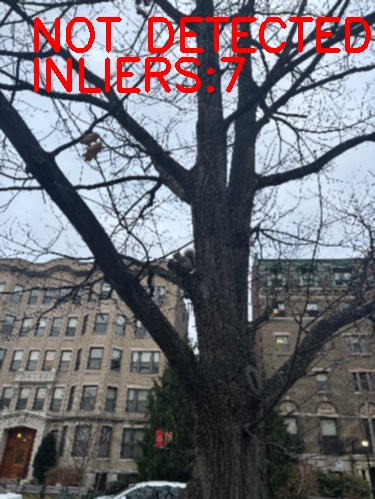
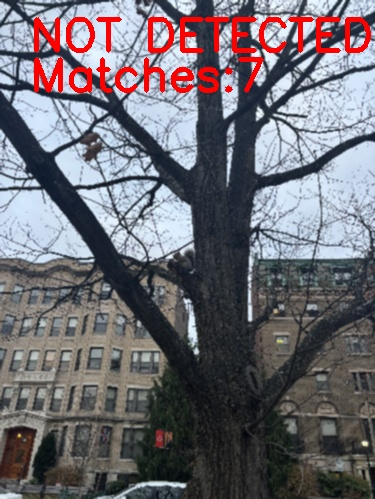
fixing comments

Changed region(s): [[0.088, 0.0902, 0.704, 0.2104]]

diff --git a/Detector-Function.py b/Detector-Function.py
@@ -3,9 +3,7 @@ import numpy as np
 import os
 import shutil
 
-# =========================================================
-# PREP OUTPUT FOLDER (fresh each run)
-# =========================================================
+# creates output images folder/clears old one
 output_root = "output-images"
 
 if os.path.exists(output_root):
@@ -13,44 +11,41 @@ if os.path.exists(output_root):
 
 os.makedirs(output_root)
 
-
-# =========================================================
-# LOAD REFERENCE IMAGE + ORB FEATURES
-# =========================================================
+# loads reference image
 reference_path = "reference.jpg"
 ref_img = cv2.imread(reference_path)
 max_dim = 500
 h, w = ref_img.shape[:2]
+
+# resizes output image to be smaller & adds gaussian blur
 scale = max_dim / max(h, w)
 if scale < 1:
     ref_img = cv2.resize(ref_img, (int(w * scale), int(h * scale)))
 ref_img = cv2.GaussianBlur(ref_img, (3,3), 0)
-
 
 if ref_img is None:
     raise ValueError("Error: cannot load reference image. Check the file path!")
 
 ref_gray = cv2.cvtColor(ref_img, cv2.COLOR_BGR2GRAY)
 
+# loads ORB features
 orb = cv2.ORB_create(nfeatures=2000)
 kp1, des1 = orb.detectAndCompute(ref_gray, None)
 
-
-# =========================================================
-# STOP SIGN DETECTION FUNCTION
-# =========================================================
+# stop sign detection function takes in a test image & returns output, true/false if it was detected, & number of inliers
 def detect_stop_sign(test_img):
+
+    # resizes test image & adds gaussian noise just like reference image
     max_dim = 500
     h, w = test_img.shape[:2]
     scale = max_dim / max(h, w)
     if scale < 1:
         test_img = cv2.resize(test_img, (int(w * scale), int(h * scale)))
-
     test_img = cv2.GaussianBlur(test_img, (3, 3), 0)
 
     test_gray = cv2.cvtColor(test_img, cv2.COLOR_BGR2GRAY)
 
-    # Extract ORB features
+    # extracts ORB features from test image
     kp2, des2 = orb.detectAndCompute(test_gray, None)
     if des2 is None:
         output = test_img.copy()
@@ -59,27 +54,27 @@ def detect_stop_sign(test_img):
 
         return output, False, 0
 
-    # Match descriptors
+    # matches descriptors using brute force matching function and comparing hamming distances
     bf = cv2.BFMatcher(cv2.NORM_HAMMING, crossCheck=True)
     matches = bf.match(des1, des2)
     matches = sorted(matches, key=lambda x: x.distance)
     good_matches = matches[:40]
 
-    # Extract point coordinates
+    # extracts point coordinates
     ref_pts = np.float32([kp1[m.queryIdx].pt for m in good_matches]).reshape(-1,1,2)
     test_pts = np.float32([kp2[m.trainIdx].pt for m in good_matches]).reshape(-1,1,2)
 
-    # Compute homography
+    # computes homography & inliers
     H, mask = cv2.findHomography(ref_pts, test_pts, cv2.RANSAC, 5.0)
     inliers = mask.ravel().tolist().count(1) if mask is not None else 0
     print("Inliers:", inliers)
 
-    # Detection threshold
+    # sets inlier detection threshold
     if H is None or inliers < 9:
         output = test_img.copy()
         cv2.putText(output, "NOT DETECTED", (30, 50),
                     cv2.FONT_HERSHEY_SIMPLEX, 1.5, (0,0,255), 3)
-        cv2.putText(output, "INLIERS:" + str(inliers), (30, 90),
+        cv2.putText(output, "Matches:" + str(inliers), (30, 90),
                     cv2.FONT_HERSHEY_SIMPLEX, 1.5, (0, 0, 255), 3)
         return output, False, inliers
 
@@ -88,20 +83,19 @@ def detect_stop_sign(test_img):
     corners = np.float32([[0,0],[w,0],[w,h],[0,h]]).reshape(-1,1,2)
     projected = cv2.perspectiveTransform(corners, H)
 
+    # creates a copy of the image and returns it as output
     output = test_img.copy()
     cv2.polylines(output, [np.int32(projected)], True, (191,64,191), 3)
     cv2.putText(output, "DETECTED", (30, 50),
                 cv2.FONT_HERSHEY_SIMPLEX, 1.5, (0,255,0), 3)
-    cv2.putText(output, "INLIERS:" + str(inliers), (30, 90),
+    cv2.putText(output, "Matches:" + str(inliers), (30, 90),
                 cv2.FONT_HERSHEY_SIMPLEX, 1.5, (0, 0, 255), 3)
 
     return output, True, inliers
 
 
-# =========================================================
-# PROCESS FOLDERS + COMPUTE ACCURACY
-# =========================================================
 
+# Processes through folders & computes accuracy
 folders = {
     "stop-close": "stop-close",
     "stop-angle": "stop-angle",
@@ -112,18 +106,19 @@ folders = {
 
 results = {}
 
+# Loops through each folder and all images within the folder
 for folder_name, folder_path in folders.items():
     print("\nProcessing folder:", folder_name)
 
     total_images = 0
     correct = 0
 
-    # Create subfolder inside output-images
+    # creates subfolder inside output-images
     save_folder = os.path.join(output_root, folder_name)
     os.makedirs(save_folder, exist_ok=True)
 
     for filename in os.listdir(folder_path):
-        if filename.lower().endswith((".jpg", ".jpeg", ".png",".webp", ".heic")):
+        if filename.lower().endswith((".jpg", ".jpeg")):
 
             total_images += 1
             img_path = os.path.join(folder_path, filename)
@@ -163,7 +158,7 @@ for folder_name, folder_path in folders.items():
 # =========================================================
 # FINAL SUMMARY
 # =========================================================
-print("\n====== FINAL ACCURACY SUMMARY ======")
+print("\n FINAL ACCURACY SUMMARY")
 for folder_name, acc in results.items():
     print(f"{folder_name}: {acc:.2f}%")
 
